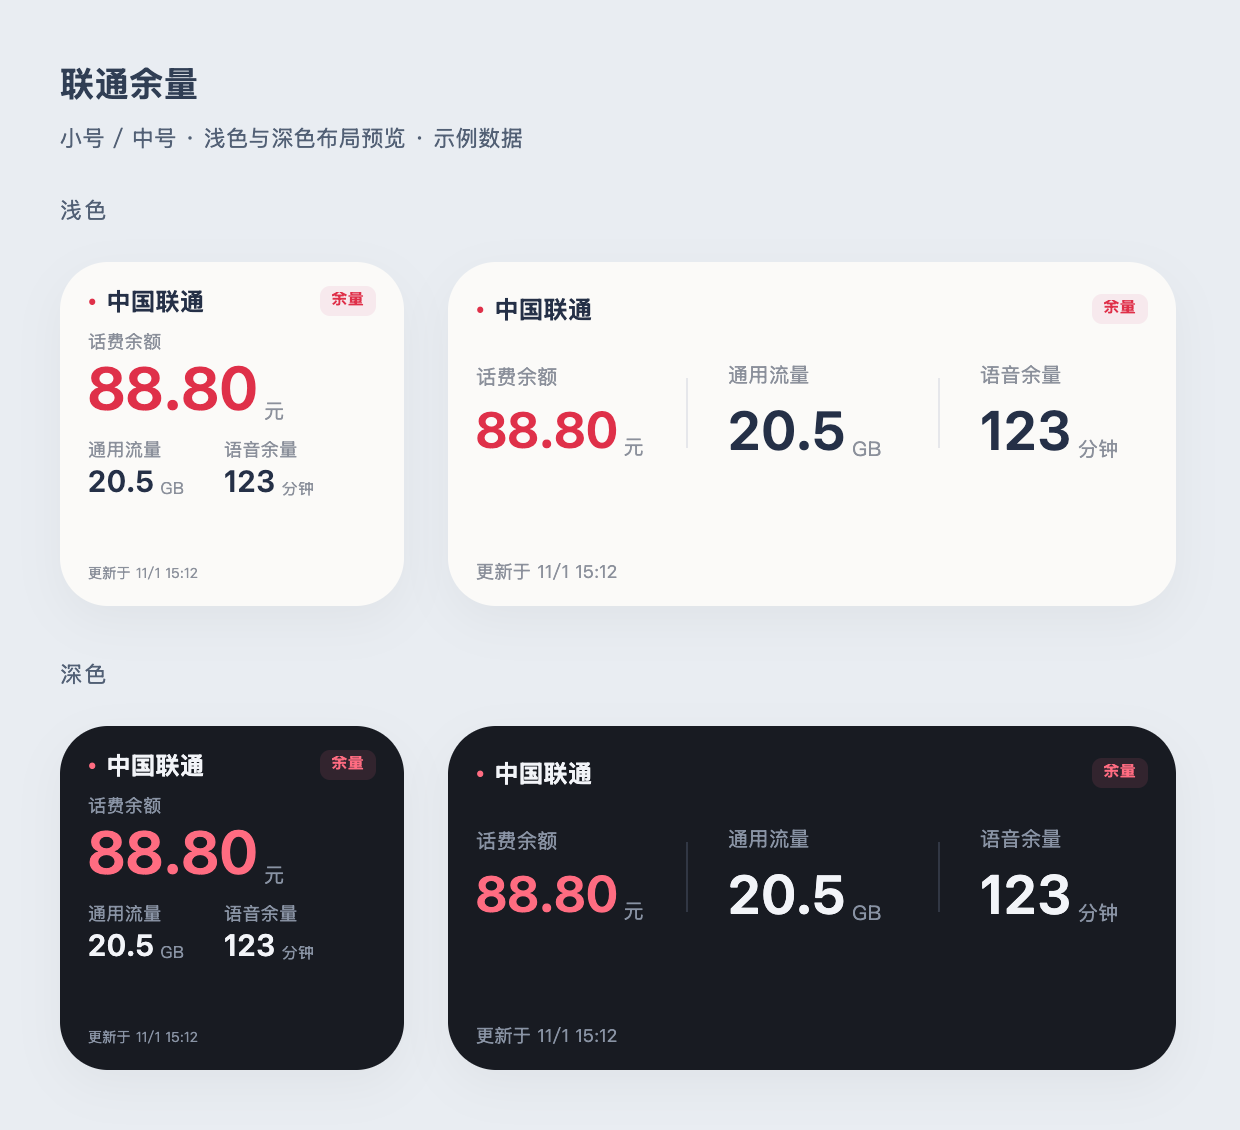
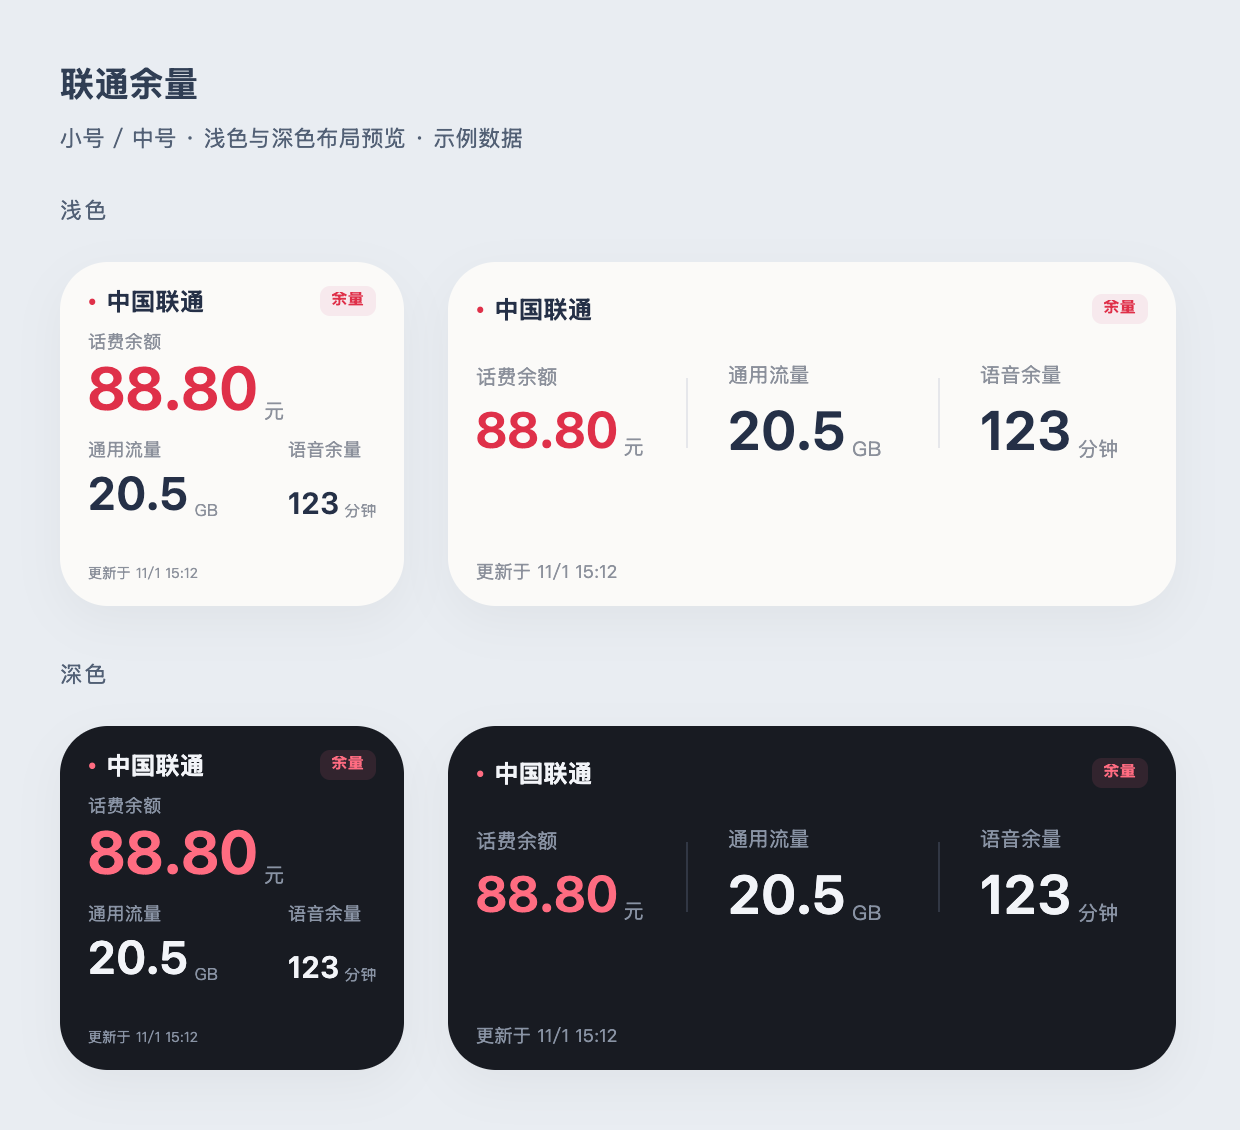
放大小号通用流量并右移语音余量

Changed region(s): [[0.0613, 0.8053, 0.3065, 0.8673], [0.1839, 0.3717, 0.3065, 0.4646], [0.0613, 0.4027, 0.1839, 0.4646]]

diff --git a/联通余量.js b/联通余量.js
@@ -3,7 +3,7 @@
 // Loon：开启中国联通去广告自用版中的「获取余量组件 Cookie」，刷新联通首页，点击获取通知。
 // 凭据只存 Keychain；直接请求联通官方接口。单账号，重新导入会替换当前账号。
 // Cookie 失效后需重新捕获，不自动登录。系统决定实际组件刷新时间。
-const SCRIPT_VERSION = '202611011546';
+const SCRIPT_VERSION = '202611011600';
 const UPDATE_URL = 'https://raw.githubusercontent.com/1clxiso/Scriptable-script/main/%E8%81%94%E9%80%9A%E4%BD%99%E9%87%8F.js';
 const CREDENTIAL_KEY = 'clxiso.unicom.widget.credentials.v1';
 const SETTINGS_KEY = 'clxiso.unicom.widget.settings.v1';
@@ -118,10 +118,13 @@ function renderWidget(cache, state, settings, family) {
     widget.addSpacer(8);
     const details = widget.addStack(); details.layoutHorizontally();
     ['flow', 'voice'].forEach((type, index) => {
-      if (index) details.addSpacer(10);
-      const column = details.addStack(); column.layoutVertically(); column.size = new Size(58, 0);
+      // 流量获得更宽的区域，语音栏通过弹性间距靠向组件右侧。
+      if (index) details.addSpacer();
+      const column = details.addStack(); column.layoutVertically(); column.size = new Size(type === 'flow' ? 78 : 44, 0);
       addText(column, names[type], 9, muted); column.addSpacer(3);
-      metric(column, cache.rows.find(row => row.type === type), 15, ink);
+      // 流量以大字号显示；较长数字由 minimumScaleFactor 按可用宽度缩小。
+      const amount = metric(column, cache.rows.find(row => row.type === type), type === 'flow' ? 23 : 15, ink);
+      amount.size = new Size(type === 'flow' ? 78 : 44, 28);
     });
   } else {
     const metrics = widget.addStack(); metrics.layoutHorizontally(); metrics.centerAlignContent();
